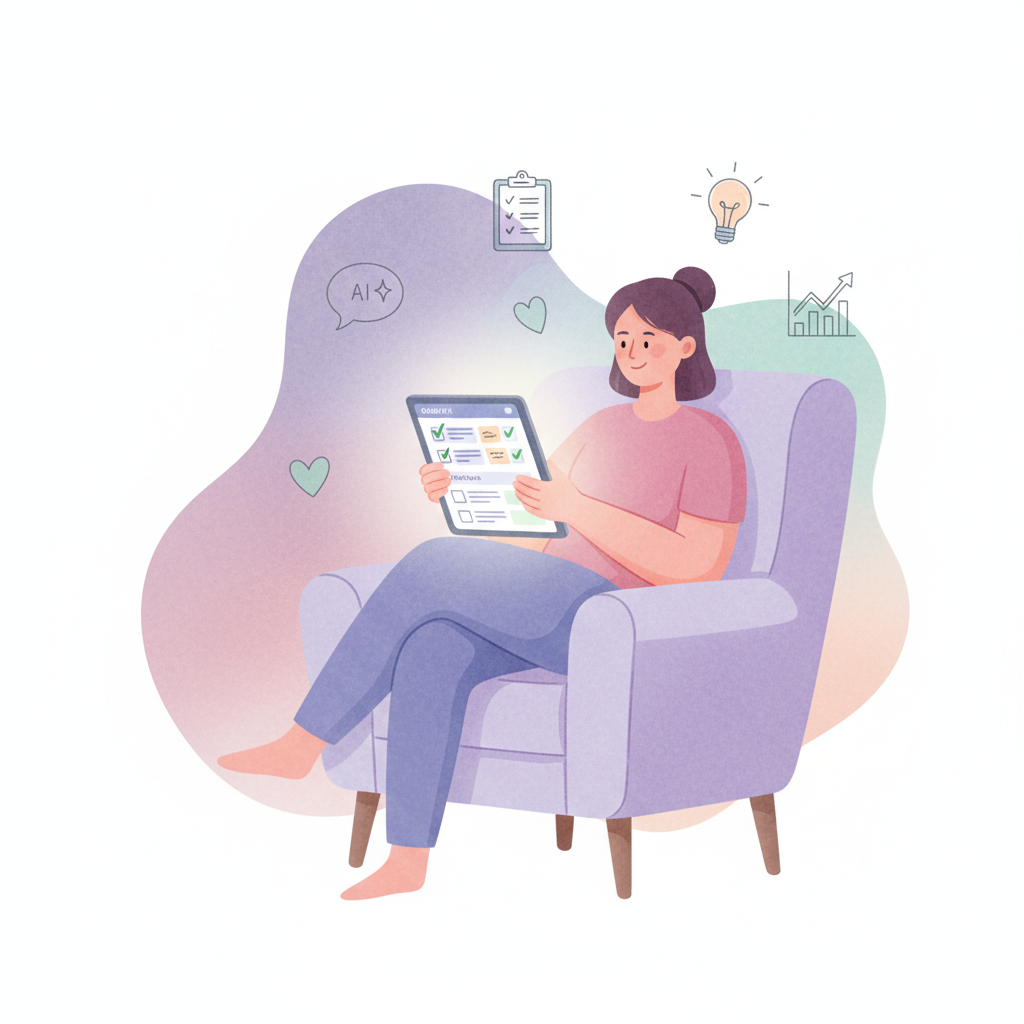
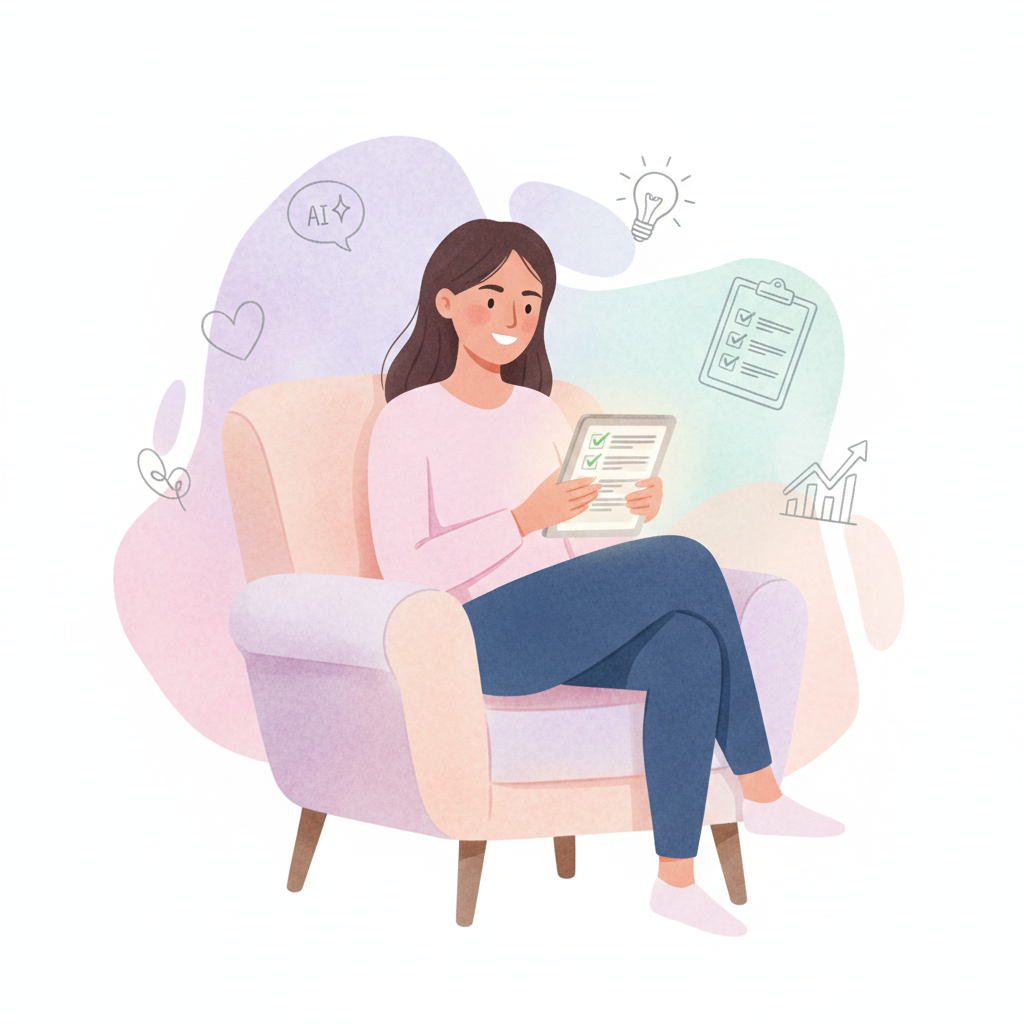
Hero images — regeneracja + aktualizacja referencji w CLAUDE.md
- Regeneracja hero images dla 2 postów naukowych z lepszym promptem
- CLAUDE.md: witamy-ewe i release-notes-12-lutego jako główne referencje nano-banana

diff --git a/CLAUDE.md b/CLAUDE.md
@@ -73,16 +73,16 @@ Blog hero images mają spójny styl wizualny. Przy generowaniu nowych grafik prz
 
 **Format:** PNG, białe tło, proporcje ok. 1:1 lub 4:3, min. 1024px szerokości.
 
-**Referencje — ZAWSZE dołącz 2–3 z tych plików jako reference images przy generowaniu:**
+**Referencje — ZAWSZE dołącz te 2 pliki jako główne reference images przy każdej generacji:**
+- `public/images/blog/witamy-ewe-w-zespole.png` — **GŁÓWNA REFERENCJA** — uścisk dłoni, powitanie, idealny styl
+- `public/images/blog/release-notes-12-lutego-2026.png` — **GŁÓWNA REFERENCJA** — prezentacja, spotkanie zespołu
+
+Dodatkowe referencje (opcjonalnie, jeśli pasują tematycznie):
 - `public/images/blog/release-notes-8-marca-2026.png` — kobieta przy laptopie, ikony tech
 - `public/images/blog/release-notes-25-lutego-2026.png` — kobieta przy biurku, dashboard
 - `public/images/blog/terapeuta-decyduje-ai-porzadkuje-webinar.png` — osoba z tabletem i notatkami
 - `public/images/blog/beta-testy-dzien-2.png` — trzy osoby, team
-- `public/images/blog/witamy-ewe-w-zespole.png` — uścisk dłoni, powitanie
-- `public/images/blog/release-notes-12-lutego-2026.png` — prezentacja, spotkanie zespołu
 - `public/images/blog/wirtualny-szpital-ai.png` — dwie osoby rozmawiające, dashboard w tle
-
-**Wyjątki:** Infografiki (np. `generatywna-ai-zwieksza.png`) i zdjęcia stockowe (np. `jak-sztuczna-inteligencja-wspiera.png`) to starsze posty — nowe grafiki powinny trzymać się stylu ilustracji.
 
 ## Important rules
 - Never link CTA buttons directly to `app.aitherapy.support` — always go through `/betatester/` first
